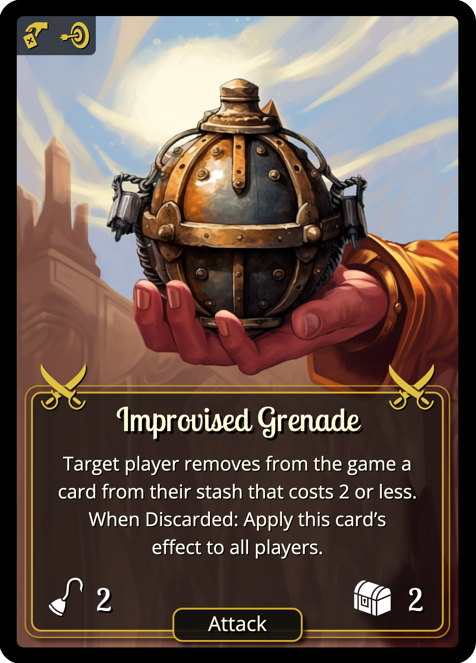
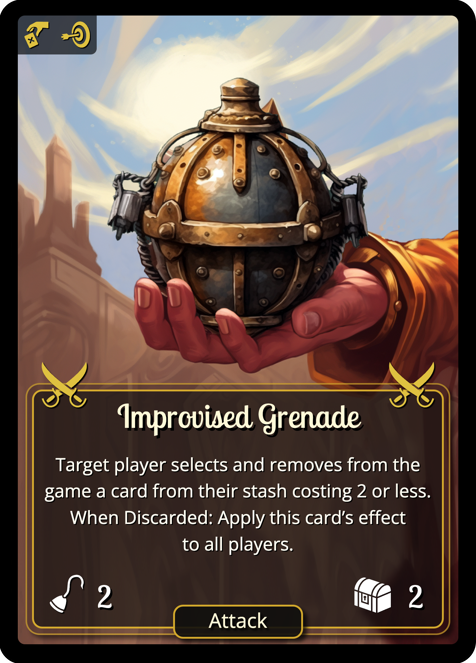
Clarify the grenade text

diff --git a/deckhand/cards.en.js b/deckhand/cards.en.js
@@ -678,7 +678,7 @@ var cards = [
 
 {
     'title': 'Improvised Grenade',
-    'text': 'Target player removes from the game a card from their stash that costs 2 or less.<br>When Discarded: Apply this card’s <br>effect to all players.',
+    'text': 'Target player selects and removes from the game a card from their stash costing 2 or less.<br>When Discarded: Apply this card’s effect <br>to all players.',
     'img': 'attacks/grenade.png',
     // 'reduced-font-size': '9.05px',
     'type': 'attack',
